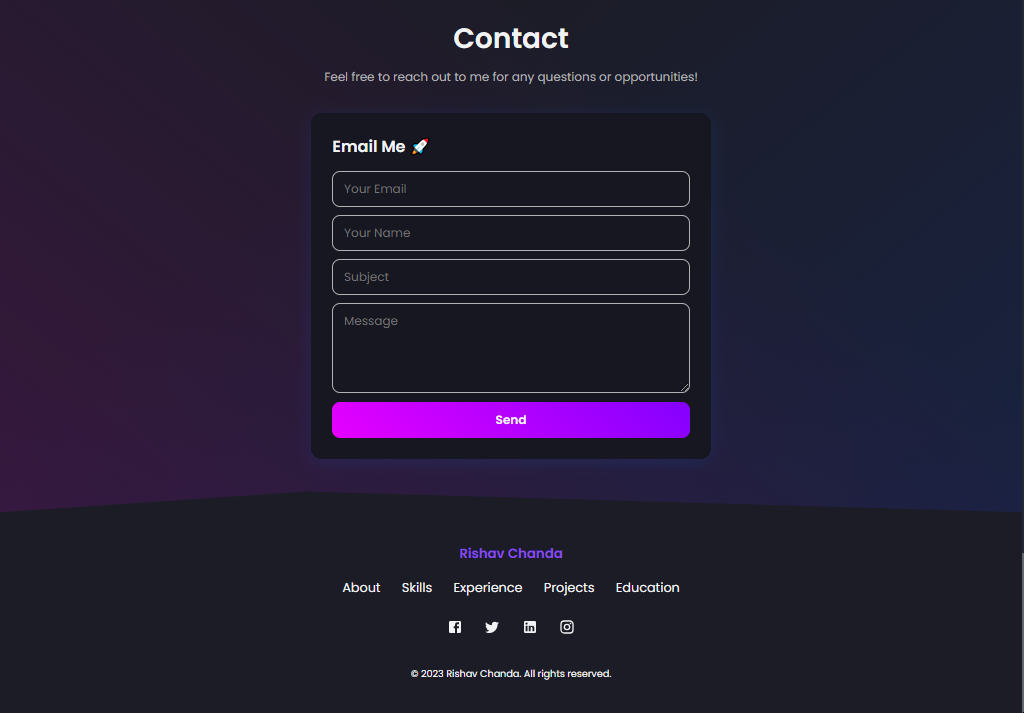
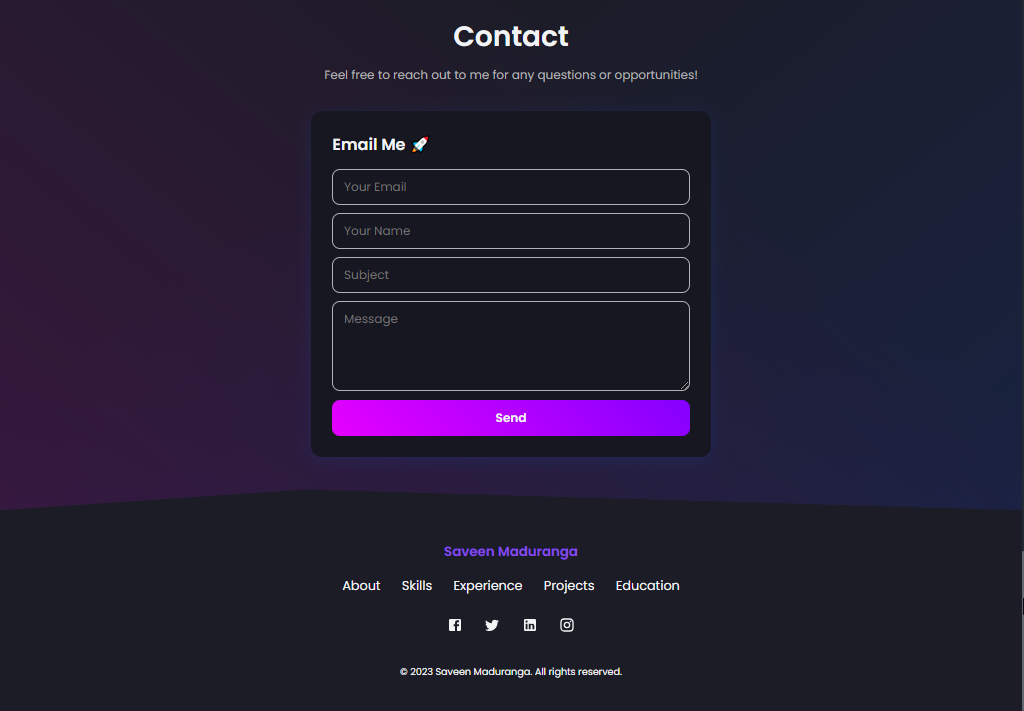
Updated Files

diff --git a/src/components/Footer/index.js b/src/components/Footer/index.js
@@ -88,7 +88,7 @@ function Footer() {
   return (
     <FooterContainer>
       <FooterWrapper>
-        <Logo>Rishav Chanda</Logo>
+        <Logo>Saveen Maduranga</Logo>
         <Nav>
           <NavLink href="#about">About</NavLink>
           <NavLink href="#skills">Skills</NavLink>
@@ -103,7 +103,7 @@ function Footer() {
           <SocialMediaIcon href={Bio.insta} target="display"><InstagramIcon /></SocialMediaIcon>
         </SocialMediaIcons>
         <Copyright>
-          &copy; 2023 Rishav Chanda. All rights reserved.
+          &copy; 2023 Saveen Maduranga. All rights reserved.
         </Copyright>
 
       </FooterWrapper>
